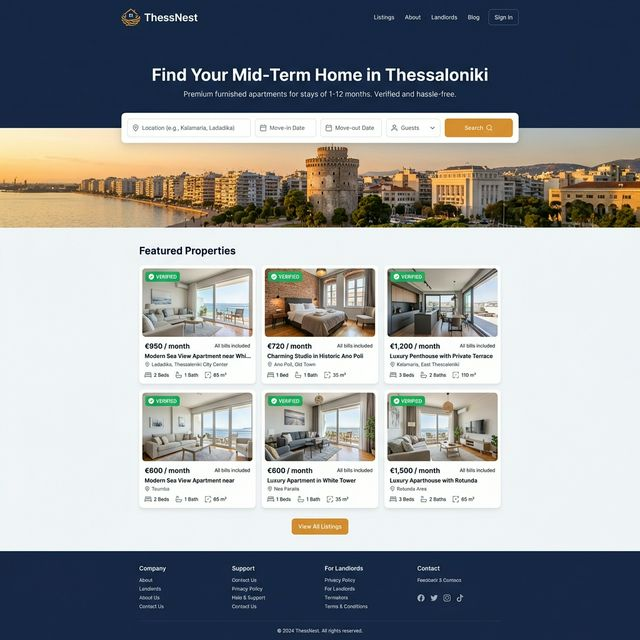
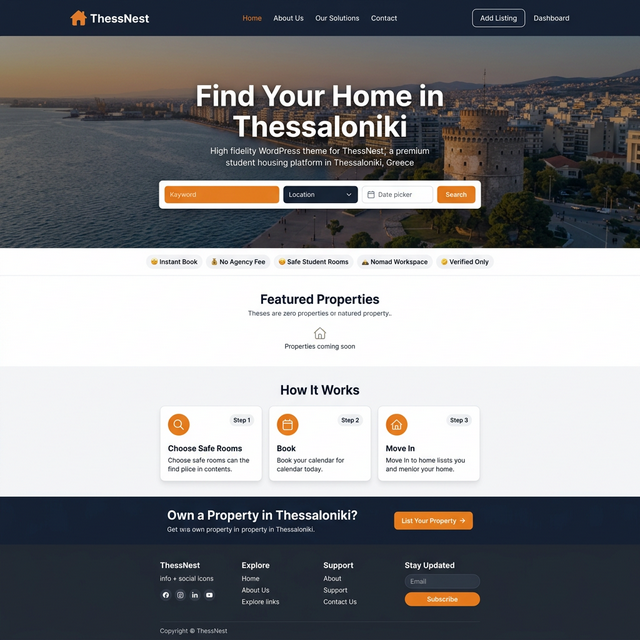
docs: Update screenshot and setup instructions.

diff --git a/setup_instructions.md b/setup_instructions.md
@@ -1,42 +1,203 @@
-# ThessNest - Kurulum ve Kullanım Rehberi
+# ThessNest — Kurulum ve Kullanım Rehberi (Complete Setup Guide)
 
-Temamıza eklediğimiz premium özellikleri (Gelişmiş Filtreleme, Favoriler, Kullanıcı Paneli, İletişim Formu) WordPress tarafında tam olarak aktif edip kullanabilmeniz için yapmanız gereken **tek seferlik** ufak adımlar şunlardır:
+Temayı sunucunuza yükleyip aktifleştirdikten sonra aşağıdaki **tek seferlik** adımları sırasıyla tamamlayarak platformu tamamen çalışır hale getirebilirsiniz.
+
+---
+
+## ⚡ 0. Ön Gereksinimler (Prerequisites)
+- WordPress 6.0 veya üstü
+- PHP 7.4 veya üstü
+- MySQL 5.7+ / MariaDB 10.3+
+- HTTPS aktif (SSL sertifikası gerekli)
+
+---
 
 ## 1. Kalıcı Bağlantıları (Permalinks) Yenileme
-Yeni eklediğimiz AJAX uç noktalarının ve emlak (Property) yapısının düzgün çalışması için bağlantıları bir kez güncelleyerek WordPress'in yeni kurallarımızı tanımasını sağlamalısınız.
-1. WordPress Admin Paneline giriş yapın.
-2. Sol menüden **Settings (Ayarlar) > Permalinks (Kalıcı Bağlantılar)** sekmesine tıklayın.
-3. Hiçbir ayarı değiştirmeden sadece en alttaki **Save Changes (Değişiklikleri Kaydet)** butonuna basın.
+Tema aktifleştirildiğinde Custom Post Type'lar (Properties, Messages, Bookings) otomatik kaydedilir. Ancak WordPress'in URL kurallarını tanıması için bağlantıları bir kez güncellemelisiniz.
 
-## 2. Frontend Kullanıcı Panelini (Dashboard) Oluşturma
-Eklediğimiz `template-dashboard.php` şablonunu kullanarak kullanıcıların favorilerini görebileceği bir sayfa oluşturmalısınız.
-1. Sol menüden **Pages (Sayfalar) > Add New (Yeni Ekle)** deyin.
-2. Sayfa başlığına örneğin "Dashboard", "Kullanıcı Paneli" veya "Profilim" yazın. (Başlık size kalmış)
-3. Sağ taraftaki **Page Attributes (Sayfa Özellikleri)** veya **Template** kutucuğundan **Frontend Dashboard** şablonunu seçin.
-4. Sayfayı **Publish (Yayınla)** diyerek kaydedin.
-5. *Not: Header'daki "Sign In / Dashboard" butonu `/dashboard/` linkine yönlendirmeye ayarlıdır. Eğer oluşturduğunuz sayfanın kalıcı bağlantısı (slug) farklı ise, `header.php` içerisindeki `/dashboard/` linkini kendi sayfa linkinize göre güncellemeniz veya sayfa uzantınızı mutlaka `dashboard` yapmanız gerekir.*
+1. **Settings (Ayarlar) > Permalinks (Kalıcı Bağlantılar)** sekmesine gidin.
+2. **Post name (Yazı adı)** seçeneğini seçin (İşte örneği: `https://site.com/sample-post/`).
+3. Hiçbir şeyi değiştirmeden **Save Changes (Değişiklikleri Kaydet)** butonuna basın.
 
-## 2.1 İlan Ekleme (Add Listing) Sayfasını Oluşturma
-Gelişmiş Frontend Submission (İlan Ekleme) altyapısı için de bir sayfaya ihtiyacımız var.
-1. Yeni bir sayfa ekleyin (**Pages > Add New**).
-2. Başlığı örneğin "Add Listing" veya "İlan Ekle" yapın.
-3. Sağ taraftaki "Template" ayarlarından **Add Listing** şablonunu seçip yayınlayın.
-4. Tıpkı Dashboard gibi Header butonları `/add-listing/` uzantısına yönlendirecek şekilde ayarlanmıştır. Sayfa URL'sinin `add-listing` olduğundan emin olun.
+> ⚠ Bu adımı yapmazsanız `/properties/`, `/dashboard/`, `/add-listing/` gibi sayfalar **404 hatası** verir.
 
-## 3. Yeni Rolleri (Landlord / Tenant) Yönetme
-Sisteme "Ev Sahibi" (Landlord) ve "Kiracı" (Tenant) rolleri eklendi.
-- Yeni bir kullanıcı eklerken veya mevcut bir kullanıcıyı düzenlerken **Users (Kullanıcılar) > Add New** ekranından rol olarak bu iki yeni rolden birini seçebilirsiniz.
-- *Test etmek için kendinize ait yönetici hesabınız haricinde bir adet "Tenant" rolünde test hesabı açıp siteye giriş yapabilir, haritadan ilan sayfasına gidip kalbe (Add to Favorites) tıklayarak Dashboard'unuzda ilanların listelendiğini doğrulayabilirsiniz.*
+---
 
-## 4. İletişim Formunu (Mail) Test Etme
-Emlak detay sayfasındaki İletişim Formunun (`single-property.php`) sorunsuz çalışması için WordPress'inizin e-posta gönderebiliyor olması gerekir.
-- Form doldurulduğunda, e-posta doğrudan o ilanı ekleyen (Author / Yazar) kullanıcının e-posta adresine gönderilir.
-- Formun çalışıp çalışmadığını test etmek için **gerçek bir SMTP** eklentisi (örneğin: *WP Mail SMTP*) kurmanız şiddetle tavsiye edilir. Aksi takdirde localhost veya paylaşımlı sunucularda PHP `mail()` fonksiyonu spama düşebilir veya hiç gitmeyebilir.
+## 2. Statik Ana Sayfa Ayarı (Homepage Configuration) ★ KRİTİK
+WordPress varsayılan olarak blog yazılarını ana sayfada gösterir. ThessNest'in özel `front-page.php` şablonunun çalışması için bunu değiştirmelisiniz.
 
-## 5. İnceleme ve Değerlendirme (Yorum) Sistemini Aktifleştirme
-Sisteme **5 Yıldızlı İnceleme Platformu** entegre edildi. WordPress'in standart Yorum (Comments) özelliğini kullanarak eklentisiz bir puanlama sistemi oluşturduk. Test etmek için:
-1. İlanlara (Property) yorum yapıldığında onay sürecinden geçmesini veya anında yayınlanmasını ayarlamak için WordPress panelinden **Settings (Ayarlar) > Discussion (Tartışma)** menüsüne gidin. İsterseniz "Yorum yazarının daha önce onaylanmış bir yorumu olmalı" veya "Yönetici her zaman onaylamalı" seçeneklerini ayarlayabilirsiniz.
-2. Özel olarak herhangi bir emlak sayfasının (örneğin ID'si 15 olan bir emlak) altında oluşturduğumuz yıldızlı **Yorum Bırak (Leave a Review)** formunu kullanabilirsiniz.
-3. Yorum bırakıldığında/onaylandığında, sistem ilanın puan ortalamasını otomatik hesaplayıp sayfa üstüne ve listeleme sayfasındaki kartına küçük bir `⭐ 4.8` rozeti olarak ekleyecektir.
+1. **Pages (Sayfalar) > Add New (Yeni Ekle)** ile yeni bir sayfa oluşturun.
+2. Sayfa başlığını **"Home"** veya **"Ana Sayfa"** yapın. İçerik kısmını boş bırakabilirsiniz (çünkü front-page.php kendi içeriğini üretir).
+3. Sayfayı **Yayınla (Publish)** deyin.
+4. **Settings (Ayarlar) > Reading (Okuma)** sekmesine gidin.
+5. **"Your homepage displays"** kısmında **"A static page"** seçeneğini işaretleyin.
+6. **Homepage** açılır menüsünden az önce oluşturduğunuz **"Home"** sayfasını seçin.
+7. **Save Changes** butonuna basın.
 
-Tüm işlemler bu kadar! Bu 5 adımı tamamladıktan sonra temanızdaki AJAX filtreleme, favoriye ekleme, mail gönderme, özel profil ve 5-yıldızlı puanlama sistemi sorunsuz bir şekilde Listdo/Houzez kalitesinde çalışacaktır.
+> ✅ Bu adımdan sonra sitenizin ana sayfasında Hero, Featured Properties, How It Works ve CTA bölümleri görünecektir.
+
+---
+
+## 3. Navigasyon Menüsü Oluşturma (Creating the Menu)
+Header'daki navigasyon çubuğunun çalışması için bir menü oluşturup atamalısınız.
+
+1. **Appearance (Görünüm) > Menus (Menüler)** sekmesine gidin.
+2. **"Create a new menu"** bağlantısına tıklayın. Menü adını **"Main Menu"** yapın.
+3. Sol taraftaki panellerden sayfalar, özel bağlantılar veya kategoriler ekleyin. Önerilen yapı:
+   - **Home** → Ana sayfa
+   - **About Us** → Hakkımızda sayfası (bkz. Adım 4)
+   - **Our Solutions** → `Özel bağlantı` olarak `/properties/` ekleyin
+   - **Contact** → İletişim sayfası (bkz. Adım 4)
+4. Alttaki **"Menu Settings"** kısmında **"Primary Menu"** kutucuğunu işaretleyin.
+5. **Save Menu** butonuna basın.
+6. İsterseniz aynı şekilde bir **"Footer Menu"** de oluşturup **Footer** konumuna atayabilirsiniz.
+
+---
+
+## 4. Gerekli Sayfaları Oluşturma (Creating Pages)
+
+Aşağıdaki sayfaları **Pages > Add New** ile oluşturmanız gerekmektedir:
+
+### 4.1 Dashboard (Kullanıcı Paneli)
+1. Başlık: **"Dashboard"** (Slug mutlaka `dashboard` olmalı)
+2. Sağ taraftaki **Template** ayarından → **Frontend Dashboard** şablonunu seçin.
+3. Yayınlayın.
+
+### 4.2 Add Listing (İlan Ekleme)
+1. Başlık: **"Add Listing"** (Slug mutlaka `add-listing` olmalı)
+2. **Template** → **Add Listing** şablonunu seçin.
+3. Yayınlayın.
+
+### 4.3 About Us (Hakkımızda)
+1. Başlık: **"About Us"**
+2. **Template** → **About Page** şablonunu seçin.
+3. İçerik kısmına platform hakkında bilgileri yazın.
+4. Yayınlayın.
+
+### 4.4 Contact (İletişim) — (Opsiyonel)
+1. Standart bir sayfa oluşturup Contact Form 7 veya WPForms eklentisiyle form ekleyebilirsiniz.
+
+> ⚠ **Dashboard ve Add Listing sayfalarının slug'ları (URL uzantısı) sırasıyla `dashboard` ve `add-listing` olmalıdır.** Header'daki butonlar bu adreslere yönlendirir.
+
+---
+
+## 5. Hero Arka Plan Görselini Yükleme (Hero Image)
+Ana sayfadaki büyük Selanik fotoğrafını değiştirmek veya yüklemek için:
+
+1. **Appearance (Görünüm) > Customize (Özelleştir)** sekmesine gidin.
+2. Sol panelde **Homepage Settings > Hero Section** bölümüne tıklayın.
+3. **"Hero Background Image"** alanına yüksek çözünürlüklü (minimum 1920×1080) bir Selanik fotoğrafı yükleyin.
+4. Hero başlığını ve alt başlığını da bu panelden düzenleyebilirsiniz.
+5. Üstteki **Publish (Yayınla)** butonuna basın.
+
+> 💡 Tema `assets/images/` klasöründe varsayılan bir görsel (`Thessaloniki_Resized.jpg`) içerir. Ancak bu görselin sunucunuzda mevcut olduğundan emin olun.
+
+---
+
+## 6. Tema Ayarları — Customizer (İletişim ve Sosyal Medya)
+Footer ve diğer bölümlerde kullanılan iletişim bilgilerini güncelleyin:
+
+1. **Appearance > Customize** sekmesine gidin.
+2. **ThessNest Ayarları** bölümüne tıklayın.
+3. Aşağıdaki alanları doldurun:
+   - **Telefon Numarası** (Örn: +30 231 000 0000)
+   - **E-Posta Adresi** (Örn: hello@thessnest.com)
+   - **Instagram Bağlantısı** (Örn: https://instagram.com/thessnest)
+   - **WhatsApp Bağlantısı** (Örn: https://wa.me/30231000000)
+   - **Footer Telif Metni** (Örn: © 2026 ThessNest. All rights reserved.)
+4. **Publish** butonuna basın.
+
+---
+
+## 7. Mahalleler, Özellikler ve Hedef Grup Ekleme (Taxonomies)
+Arama filtreleri ve ilanların düzgün çalışması için taxonomy terimlerini önceden oluşturmalısınız:
+
+### 7.1 Neighborhoods (Mahalleler)
+1. **Properties > Neighborhoods** sekmesine gidin.
+2. Selanik'in mahallelerini ekleyin: Ladadika, Kalamaria, Ano Poli, Toumba, Pylaia, Triangle, vb.
+
+### 7.2 Amenities (Özellikler)
+1. **Properties > Amenities** sekmesine gidin.
+2. Eklenmesi önerilen özellikler: Fast Wi-Fi, Washing Machine, Balcony, Air Conditioning, Dedicated Workspace, Furnished, Elevator, Parking, Dishwasher, vb.
+
+### 7.3 Target Groups (Hedef Gruplar)
+1. **Properties > Target Groups** sekmesine gidin.
+2. Ekleyin: Student, Digital Nomad, Expat
+
+> ✅ Bu terimlerin oluşturulmadan ilan eklenemez (dropdown'lar boş görünür).
+
+---
+
+## 8. Kullanıcı Rolleri (User Roles — Landlord / Tenant)
+Tema iki özel kullanıcı rolü tanımlar:
+- **Landlord (Ev Sahibi):** İlan ekleyebilir, KYC belgesi yükleyebilir.
+- **Tenant (Kiracı):** Favorilere ekleyebilir, rezervasyon yapabilir, mesaj gönderebilir.
+
+Bu roller tema aktifleştirildiğinde otomatik yaratılır.
+
+- **Users > Add New** ekranından yeni bir kullanıcı eklerken rol olarak **Landlord** veya **Tenant** seçebilirsiniz.
+- Test için bir adet Landlord ve bir adet Tenant hesabı oluşturup tüm özellikleri denemeniz önerilir.
+
+---
+
+## 9. E-Posta Gönderimi (SMTP Kurulumu) ★ ÖNEMLİ
+İletişim formu, rezervasyon bildirimi ve KYC onay e-postalarının çalışması için WordPress'inizin e-posta gönderebiliyor olması gerekir.
+
+- Paylaşımlı hosting'lerde PHP `mail()` fonksiyonu genellikle spama düşer veya hiç çalışmaz.
+- **WP Mail SMTP** eklentisini kurup bir SMTP servisi (Gmail, SendGrid, Mailgun vb.) ile yapılandırın.
+- Kurulum sonrası **WP Mail SMTP > Tools > Email Test** bölümünden test gönderin.
+
+---
+
+## 10. İnceleme Sistemi (Reviews & Ratings)
+5 yıldızlı puanlama sistemi aktiftir. WordPress'in yorum altyapısını kullanır.
+
+1. **Settings > Discussion (Tartışma)** sekmesine gidin.
+2. İlan yorumlarının otomatik mi yoksa onay gerektirerek mi yayınlanacağını ayarlayın.
+3. Test olarak bir emlak sayfasının altından yorum bırakıp yıldız verin.
+
+---
+
+## 11. Test Verisi Ekleme (Adding Sample Properties)
+Sitenin canlı görünmesi için birkaç test ilanı eklemelisiniz:
+
+1. **Properties > Add New** sekmesine gidin.
+2. Başlık, açıklama, fotoğraflar (Featured Image + Gallery) ekleyin.
+3. Sağ taraftaki kutulardan **Neighborhood**, **Amenities**, **Target Group** seçin.
+4. Alt kısımdaki **Property Details** meta kutusundan kira fiyatı, fatura bedeli vs. girin.
+5. **Property Location (Map)** meta kutusundan haritada konumu işaretleyin.
+6. Yayınlayın.
+
+> Ana sayfada "Featured Properties" bölümünde ilanların görünmesi için en az 1 ilan yayınlanmış olmalıdır.
+
+---
+
+## 12. Önerilen Eklentiler (Recommended Plugins)
+| Eklenti | Amaç | Öncelik |
+|---------|-------|---------|
+| **WP Mail SMTP** | E-posta gönderimini sağlamak | ★★★ Kritik |
+| **Loco Translate** | Tema metinlerini panelden çevirmek/düzenlemek | ★★★ Kritik |
+| **Rank Math SEO** (veya Yoast) | Arama motoru optimizasyonu | ★★☆ Yüksek |
+| **WP Super Cache** (veya LiteSpeed Cache) | Sayfa hızı / performans | ★★☆ Yüksek |
+| **Contact Form 7** (veya WPForms) | İletişim sayfası formu | ★☆☆ Orta |
+| **Classic Editor** | Gutenberg yerine klasik editör (opsiyonel) | ★☆☆ Opsiyonel |
+
+---
+
+## ✅ Kurulum Sonrası Kontrol Listesi (Post-Setup Checklist)
+
+- [ ] Permalinks güncellendi (Adım 1)
+- [ ] Statik ana sayfa ayarlandı (Adım 2)
+- [ ] Navigasyon menüsü oluşturuldu ve atandı (Adım 3)
+- [ ] Dashboard sayfası oluşturuldu (`/dashboard/`) (Adım 4.1)
+- [ ] Add Listing sayfası oluşturuldu (`/add-listing/`) (Adım 4.2)
+- [ ] About Us sayfası oluşturuldu (Adım 4.3)
+- [ ] Hero görseli yüklendi (Adım 5)
+- [ ] Customizer ayarları güncellendi (Adım 6)
+- [ ] Mahalleler eklendi (Adım 7.1)
+- [ ] Özellikler (Amenities) eklendi (Adım 7.2)
+- [ ] Hedef Gruplar eklendi (Adım 7.3)
+- [ ] Test kullanıcıları oluşturuldu (Adım 8)
+- [ ] SMTP eklentisi kuruldu ve test edildi (Adım 9)
+- [ ] En az 1 test ilanı yayınlandı (Adım 11)
+- [ ] Önerilen eklentiler kuruldu (Adım 12)
